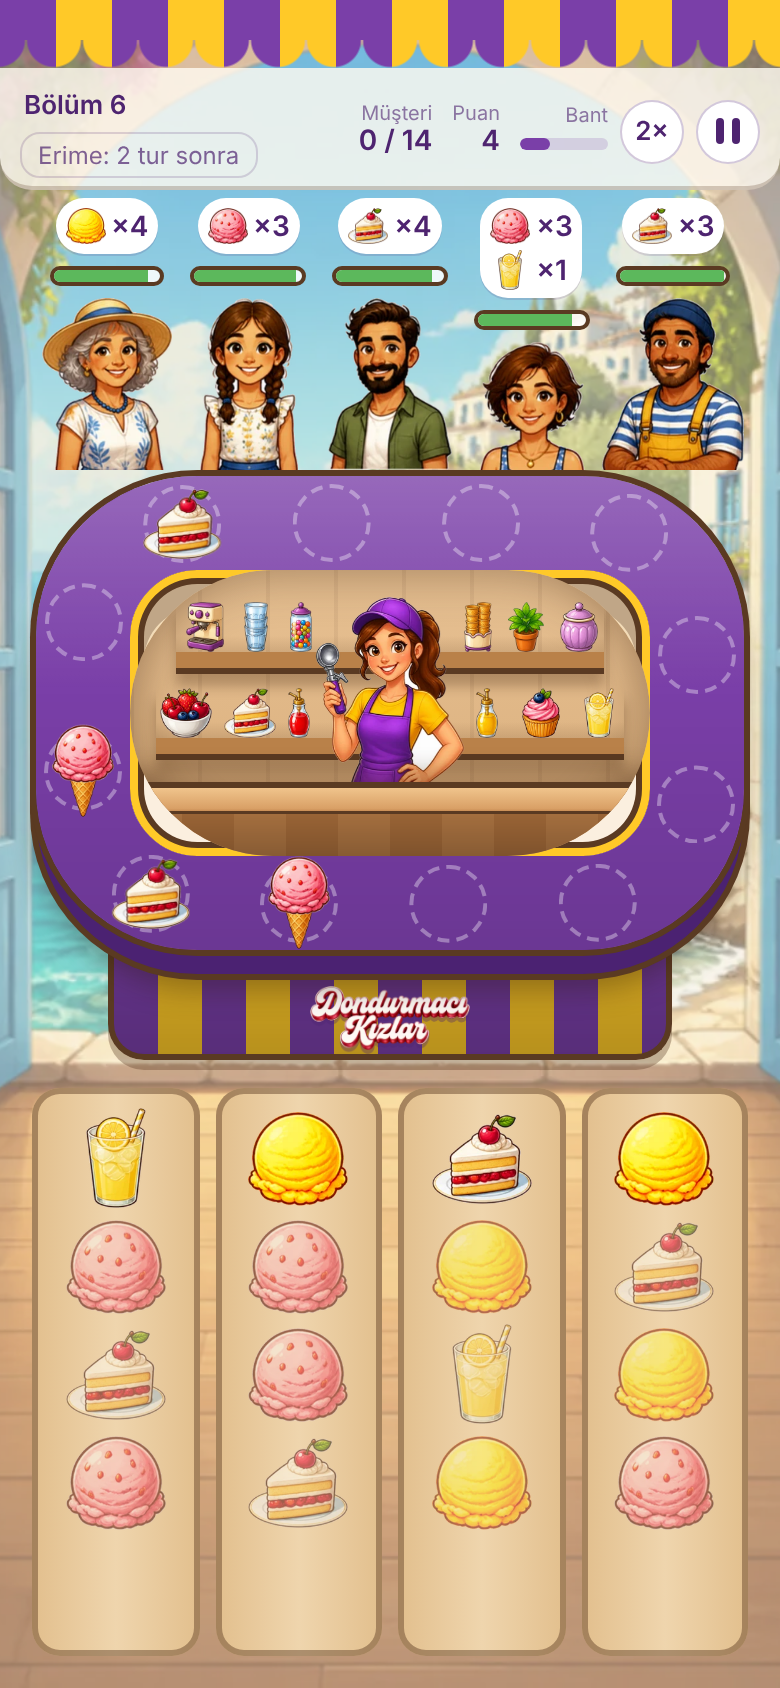
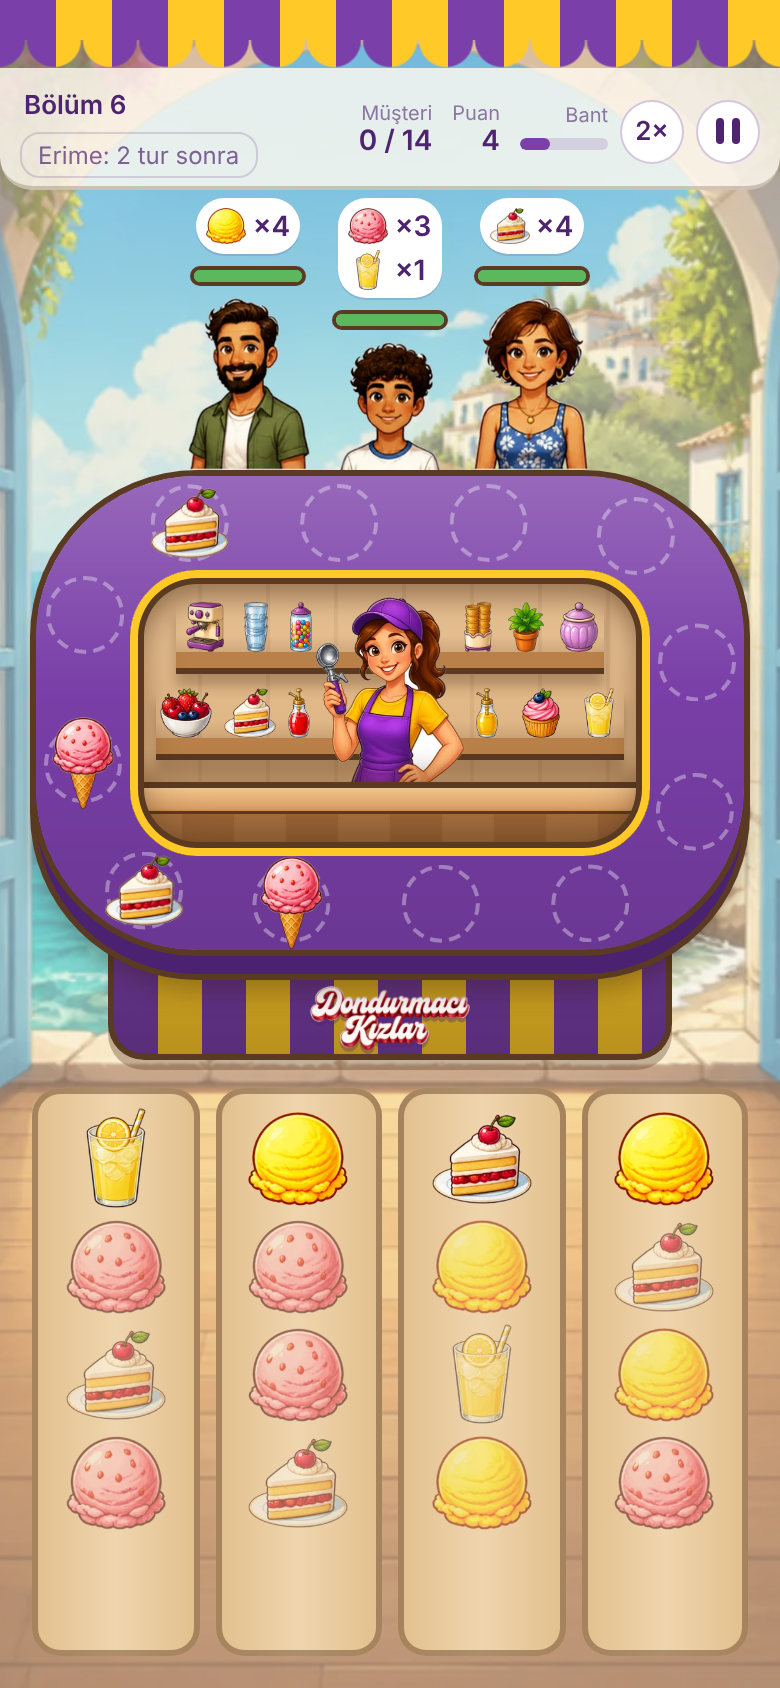
Barın arkası dikdörtgen: iç köşe bandın iç köşesi kadar
Kemal, 30 Ekim: "bar dikdortgen ama arkaplan elips kaldi". Sarı iç çizgi
barın çerçevesi olarak en üstte.

Claude-Session: https://claude.ai/code/session_01W4YTfMmmgRhw7VQk1dL6u6

diff --git a/src/stil.css b/src/stil.css
@@ -686,14 +686,29 @@ html, body {
 .bar {
   position: absolute;
   inset: 0;
-  border-radius: inherit;
+  /* bandın iç köşesi kadar yuvarlak (dış köşe − bant kalınlığı; oyun.ts verir),
+     dış köşeyi alırsa iç alan elips gibi kalıyordu (Kemal, 30 Ekim) */
+  border-radius: var(--ic-kose, 12px);
   overflow: hidden;
   background:
     repeating-linear-gradient(90deg, rgba(90, 58, 34, 0.08) 0 2px, transparent 2px 34px),
     linear-gradient(#e7c193, #d9ad7a);
   /* arka duvar içe çökük görünsün: kenarlarda koyulaşan gölge */
-  box-shadow: inset 0 0 26px rgba(60, 30, 10, 0.45);
   pointer-events: none;
+}
+/* Barın çerçevesi en üstte: iç kenarda bandın sarı çizgisi ve kahverengi hattı,
+   içe doğru gölge (bar tezgâhı da bu çerçevenin altında kalır). */
+.bar::after {
+  content: '';
+  position: absolute;
+  inset: 0;
+  border-radius: inherit;
+  z-index: 3;
+  box-shadow:
+    inset 0 0 0 4px var(--sari),
+    inset 0 0 0 7px var(--hat),
+    inset 0 10px 12px 4px rgba(60, 30, 10, 0.35),
+    inset 0 0 26px rgba(60, 30, 10, 0.4);
 }
 .raf {
   position: absolute;

diff --git a/src/oyun.ts b/src/oyun.ts
@@ -883,6 +883,8 @@ export class Oyun {
     // Dış köşe = orta çizginin köşesi + bandın yarı kalınlığı; iç köşe CSS'te kendiliğinden.
     const disKose = koseYaricapi(y.bantY2) + y.bantKalinlik / 2;
     b.borderRadius = `${disKose}px`;
+    // İç alan (bar) bandın iç köşesi kadar yuvarlak: dış köşe eksi bant kalınlığı.
+    b.setProperty('--ic-kose', `${Math.max(6, disKose - y.bantKalinlik)}px`);
 
     // Tezgâhın önü bandın alt düz kısmının altında (arka plan bütün sayfaya yayılır, CSS).
     const onu = this.onuEl.style;

diff --git a/docs/tasarim-belgesi.md b/docs/tasarim-belgesi.md
@@ -42,6 +42,7 @@ Kemal'in isteği (telefondan iki ekran görüntüsüyle): "Insanlar barin arkasi
 - Kurallar ve sayılar değişmedi.
 - Ekran görüntüleri: `docs/ekran/bar-3b/`.
 - Müşteri boyu (Kemal, 30 Ekim: "Musteriler boyunlarindan yukari gorunuyor boylari daha cok gorunmeli"): müşteri resmi büyüdü (büyük telefonda 86 piksel; kısa ekranda bar sıkışmasın diye ekran yüksekliğine göre küçülür, en az 60), barın arkasında kalan kısmı azaldı; müşteriler belden yukarı görünür. Ekran görüntüleri: `docs/ekran/musteri-boyu/`.
+- Barın arkası (Kemal, 30 Ekim: "Ve bar dikdortgen ama arkaplan elips kaldi"): bandın iç alanı artık bandın iç köşesi kadar yuvarlak (dış köşe eksi bant kalınlığı), elips gibi görünmüyor; sarı iç çizgi ve içe doğru gölge barın çerçevesi olarak en üstte.
 
 ### 0.19 Büyük paket: bar, sabır, fiş, ayarlar, sahil yolu (öneri; 30 Ekim 2026)
 
